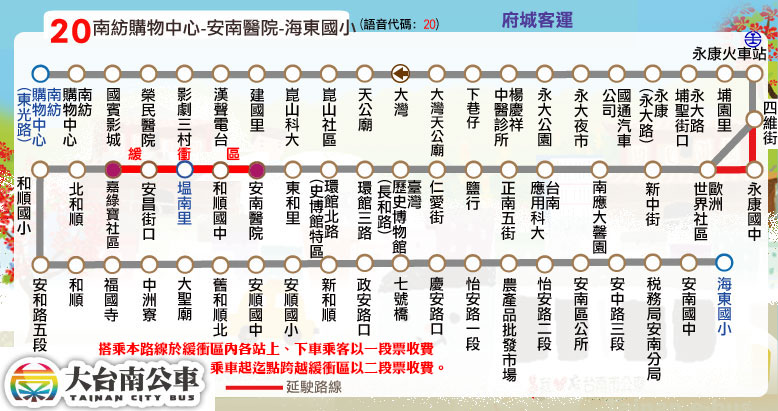
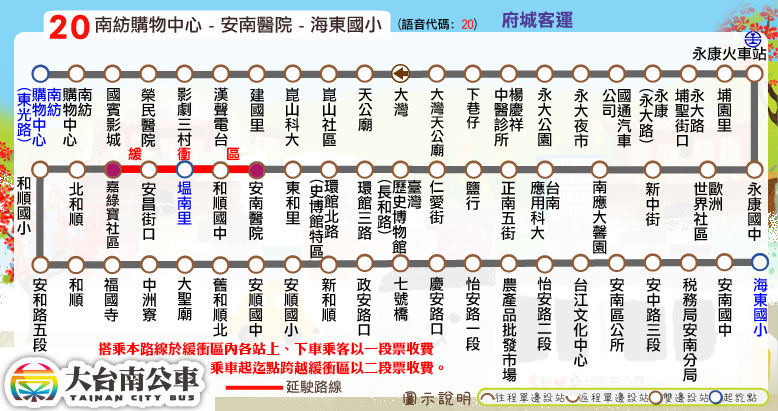
更新路線圖：20路(每班皆停靠「永康國中」、移除「四維街」站位)

diff --git a/route/fare_and_time/city_bus_20.js b/route/fare_and_time/city_bus_20.js
@@ -1,29 +1,15 @@
 // format = [time at the start stop] or
-
 // [time, other] or
-
 // [time, start_stop, end_stop, other]
-
 city_bus_20_main_stop_name = ["南紡購物中心<br />(東光路)","崑山科大","永大夜市","永康<br />火車站","台南應用<br />科技大學","臺灣歷史<br />博物館","安南醫院","塭南里","海東國小"];
-
 city_bus_20_main_stop_time_consume = [0, 10, 17, 25, 35, 46, 50, 55, 80];
-
 city_bus_20_important_stop = [0, 3, 5, 6, 8]; // 南紡購物中心(東光路), 永康火車站, 臺灣歷史博物館, 安南醫院, 海東國小
-
 var start_stop = 7; // 塭南里
-
 var end_stop = 0; // 南紡購物中心(東光路)
-
 city_bus_20_time_go = [["06:00",[[4,-5,5,-5]]],["06:30",[[4,-5,5,-5]]],["07:00"],["08:00"],["09:00"],["10:00"],["11:00"],
-
-["12:00"],["13:00"],["14:00"],["15:00"],["16:00",['繞']],["16:30",['繞']],["17:00",['繞',[1,5]]],["17:30",['繞',[1,5]]],["18:05",['繞',[1,5]]],["19:00"],
-
+["12:00"],["13:00"],["14:00"],["15:00"],["16:00"],["16:30"],["17:00",[[1,5]]],["17:30",[[1,5]]],["18:05",[[1,5]]],["19:00"],
 ["20:00"],["20:45",[[4,-5]]],["21:30",[[4,-5]]]
-
 ];
-
-city_bus_20_time_return = [["06:00",start_stop,end_stop,['繞']],["06:05",['繞']],["06:25",['繞']],["07:00",['繞']],["07:55",['繞']],["08:50"],["09:50"],["10:50"],["11:50"],["12:50"],["13:50"],
-
+city_bus_20_time_return = [["06:00",start_stop,end_stop],["06:05"],["06:25"],["07:00"],["07:55"],["08:50"],["09:50"],["10:50"],["11:50"],["12:50"],["13:50"],
 ["14:55"],["15:50"],["16:30"],["17:00"],["17:30"],["18:10"],["19:10"],["20:10"],["20:50"],["21:30"]
-
 ];

diff --git a/urban/20.html b/urban/20.html
@@ -20,7 +20,7 @@
 	block_route_map(null);
 	block_route_info(route_interval,'府城客運','尖30離60','兩段票 分段點：塭南里<br />緩衝區：安南醫院 ─ 嘉綠寶社區','http://www.2384.com.tw/ebus/jsp/ajaxBus.jsp?pathId=10020&locale=zh_TW');
 	block_fare(2, null,'分段點：塭南里<br /><font color="#CC2102"><u>緩衝區：安南醫院－嘉綠寶社區</u></font><br /><font color="green">乘車起迄點跨越緩衝區以二段票收費</font>');
-	block_time_schedule('南紡購物中心','海東國小','「<span style="color:blue;">繞</span>」表示繞駛永康國中');
+	block_time_schedule('南紡購物中心','海東國小','');
 	block_transfer(transfer_kun_shan_university + transfer_yongkang_railway_station + transfer_yanhang + transfer_taiwan_history_museum + transfer_annan_hospital + transfer_haidong_elementary_school);
 	block_copyright();
 </script>
